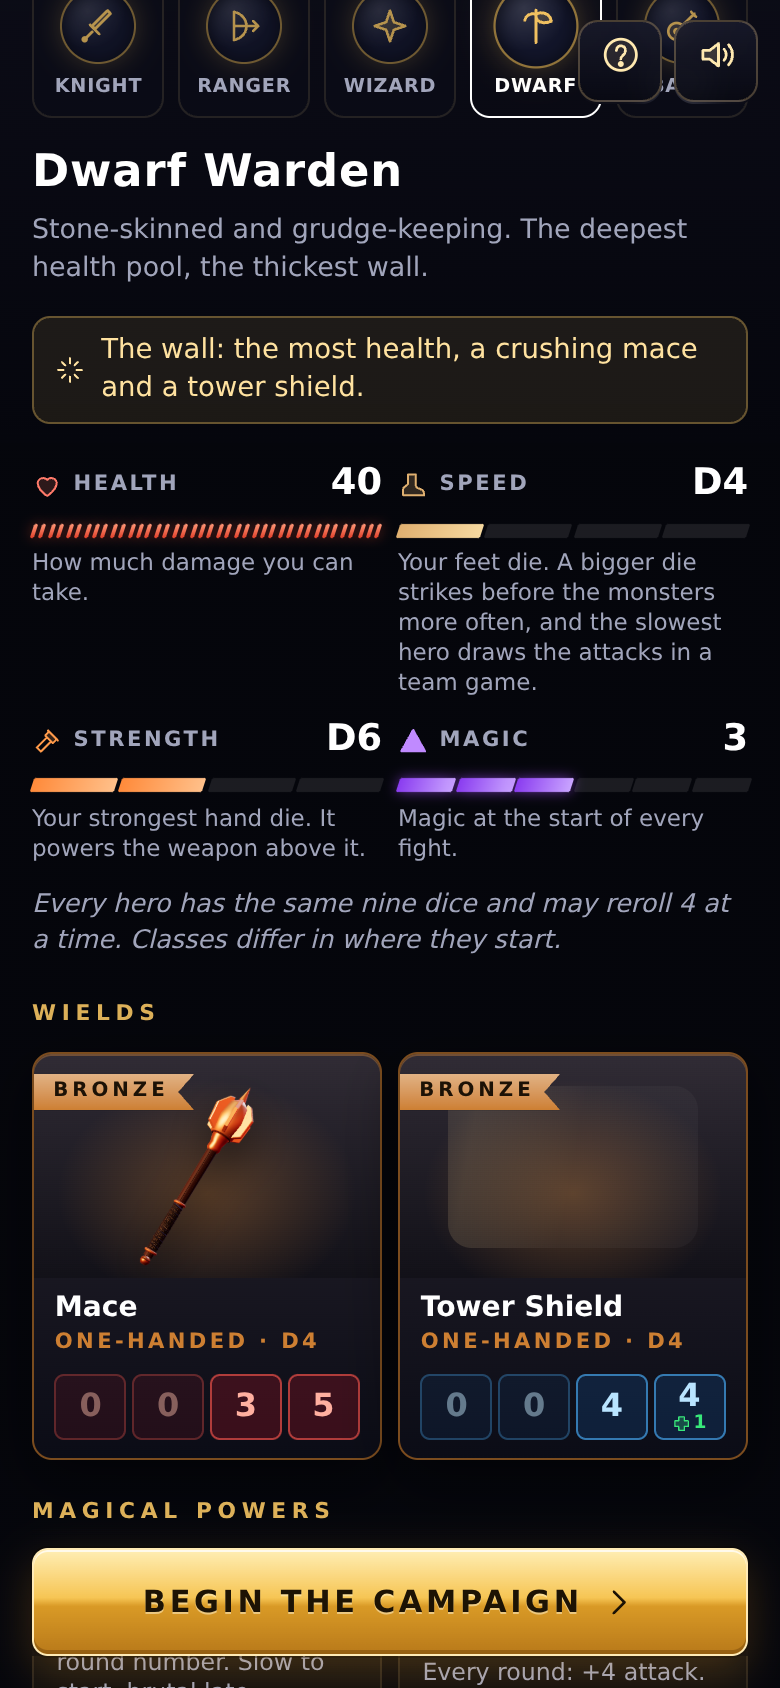
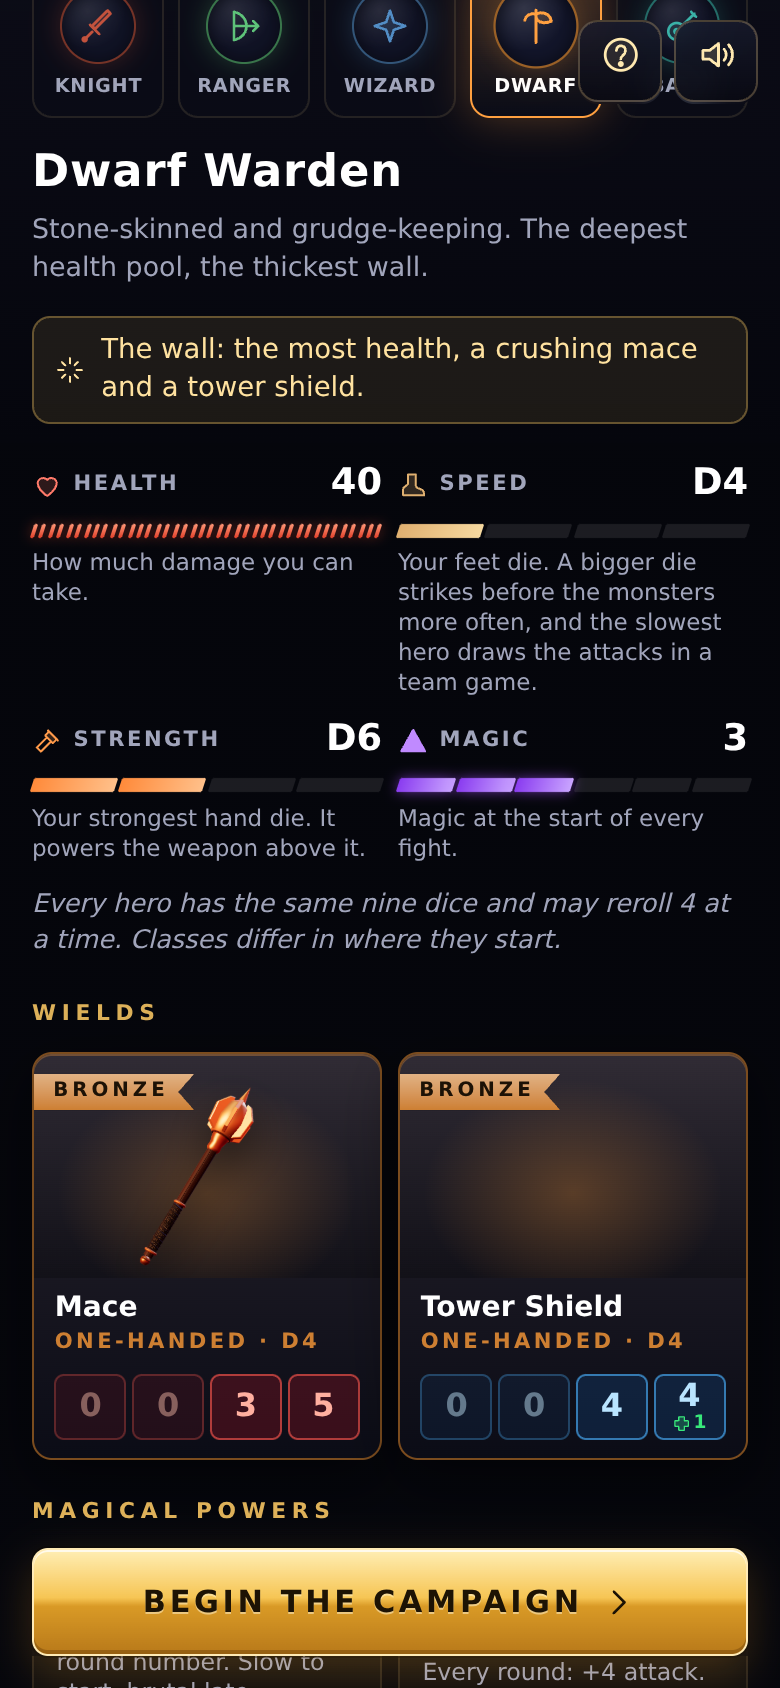
Company looks: a second or third hero of the same class wears another colour set; roster chips match
Claude-Session: https://claude.ai/code/session_01DujDBar2Jc6ufUDBkRgkDu

diff --git a/index.html b/index.html
@@ -5,7 +5,7 @@
   <meta name="viewport" content="width=device-width, initial-scale=1, viewport-fit=cover">
   <meta name="theme-color" content="#04060d">
   <title>QuestDice</title>
-  <script type="importmap">{"imports":{"three":"./vendor/three/build/three.module.js","three/addons/":"./vendor/three/examples/jsm/","./js/auction.js":"./js/auction.js?v=20261010j","./js/audio.js":"./js/audio.js?v=20261010j","./js/cloud.js":"./js/cloud.js?v=20261010j","./js/coach.js":"./js/coach.js?v=20261010j","./js/data.js":"./js/data.js?v=20261010j","./js/die3d.js":"./js/die3d.js?v=20261010j","./js/dom.js":"./js/dom.js?v=20261010j","./js/engine.js":"./js/engine.js?v=20261010j","./js/firebase-config.js":"./js/firebase-config.js?v=20261010j","./js/fx.js":"./js/fx.js?v=20261010j","./js/g3/battle3d.js":"./js/g3/battle3d.js?v=20261010j","./js/g3/director.js":"./js/g3/director.js?v=20261010j","./js/g3/hudkit.js":"./js/g3/hudkit.js?v=20261010j","./js/g3/icons.js":"./js/g3/icons.js?v=20261010j","./js/g3/portrait.js":"./js/g3/portrait.js?v=20261010j","./js/g3/screens.js":"./js/g3/screens.js?v=20261010j","./js/g3/scrui.js":"./js/g3/scrui.js?v=20261010j","./js/g3/stubs.js":"./js/g3/stubs.js?v=20261010j","./js/g3/tutorial.js":"./js/g3/tutorial.js?v=20261010j","./js/g3/world.js":"./js/g3/world.js?v=20261010j","./js/gfx/actors/base.js":"./js/gfx/actors/base.js?v=20261010j","./js/gfx/actors/common.js":"./js/gfx/actors/common.js?v=20261010j","./js/gfx/actors/cultist.js":"./js/gfx/actors/cultist.js?v=20261010j","./js/gfx/actors/goblin.js":"./js/gfx/actors/goblin.js?v=20261010j","./js/gfx/actors/goblinking.js":"./js/gfx/actors/goblinking.js?v=20261010j","./js/gfx/actors/hero.js":"./js/gfx/actors/hero.js?v=20261010j","./js/gfx/actors/heroclips.js":"./js/gfx/actors/heroclips.js?v=20261010j","./js/gfx/actors/herocloth.js":"./js/gfx/actors/herocloth.js?v=20261010j","./js/gfx/actors/herokit.js":"./js/gfx/actors/herokit.js?v=20261010j","./js/gfx/actors/index.js":"./js/gfx/actors/index.js?v=20261010j","./js/gfx/actors/ogre.js":"./js/gfx/actors/ogre.js?v=20261010j","./js/gfx/actors/parts.js":"./js/gfx/actors/parts.js?v=20261010j","./js/gfx/actors/parts2.js":"./js/gfx/actors/parts2.js?v=20261010j","./js/gfx/actors/wolf.js":"./js/gfx/actors/wolf.js?v=20261010j","./js/gfx/arena.js":"./js/gfx/arena.js?v=20261010j","./js/gfx/arena/common.js":"./js/gfx/arena/common.js?v=20261010j","./js/gfx/arena/flora.js":"./js/gfx/arena/flora.js?v=20261010j","./js/gfx/arena/fx.js":"./js/gfx/arena/fx.js?v=20261010j","./js/gfx/arena/ground.js":"./js/gfx/arena/ground.js?v=20261010j","./js/gfx/arena/helpers.js":"./js/gfx/arena/helpers.js?v=20261010j","./js/gfx/arena/kit.js":"./js/gfx/arena/kit.js?v=20261010j","./js/gfx/arena/places1.js":"./js/gfx/arena/places1.js?v=20261010j","./js/gfx/arena/places2.js":"./js/gfx/arena/places2.js?v=20261010j","./js/gfx/arena/props.js":"./js/gfx/arena/props.js?v=20261010j","./js/gfx/arena/sky.js":"./js/gfx/arena/sky.js?v=20261010j","./js/gfx/arena/tex.js":"./js/gfx/arena/tex.js?v=20261010j","./js/gfx/core.js":"./js/gfx/core.js?v=20261010j","./js/gfx/demo/actor.js":"./js/gfx/demo/actor.js?v=20261010j","./js/gfx/demo/arena.js":"./js/gfx/demo/arena.js?v=20261010j","./js/gfx/demo/dicegallery.js":"./js/gfx/demo/dicegallery.js?v=20261010j","./js/gfx/demo/dicelab.js":"./js/gfx/demo/dicelab.js?v=20261010j","./js/gfx/demo/materials.js":"./js/gfx/demo/materials.js?v=20261010j","./js/gfx/demo/tray.js":"./js/gfx/demo/tray.js?v=20261010j","./js/gfx/demo/vfx.js":"./js/gfx/demo/vfx.js?v=20261010j","./js/gfx/demo/weapons.js":"./js/gfx/demo/weapons.js?v=20261010j","./js/gfx/dice/art.js":"./js/gfx/dice/art.js?v=20261010j","./js/gfx/dice/dice.js":"./js/gfx/dice/dice.js?v=20261010j","./js/gfx/dice/faces.js":"./js/gfx/dice/faces.js?v=20261010j","./js/gfx/dice/fx.js":"./js/gfx/dice/fx.js?v=20261010j","./js/gfx/dice/poly.js":"./js/gfx/dice/poly.js?v=20261010j","./js/gfx/dice/roll.js":"./js/gfx/dice/roll.js?v=20261010j","./js/gfx/dice/tray.js":"./js/gfx/dice/tray.js?v=20261010j","./js/gfx/env.js":"./js/gfx/env.js?v=20261010j","./js/gfx/mats.js":"./js/gfx/mats.js?v=20261010j","./js/gfx/noise.js":"./js/gfx/noise.js?v=20261010j","./js/gfx/particles.js":"./js/gfx/particles.js?v=20261010j","./js/gfx/post.js":"./js/gfx/post.js?v=20261010j","./js/gfx/rig.js":"./js/gfx/rig.js?v=20261010j","./js/gfx/tex.js":"./js/gfx/tex.js?v=20261010j","./js/gfx/util.js":"./js/gfx/util.js?v=20261010j","./js/gfx/vfx.js":"./js/gfx/vfx.js?v=20261010j","./js/gfx/vfx/quads.js":"./js/gfx/vfx/quads.js?v=20261010j","./js/gfx/vfx/shaders.js":"./js/gfx/vfx/shaders.js?v=20261010j","./js/gfx/vfx/strips.js":"./js/gfx/vfx/strips.js?v=20261010j","./js/gfx/vfx/text.js":"./js/gfx/vfx/text.js?v=20261010j","./js/gfx/vfx/textures.js":"./js/gfx/vfx/textures.js?v=20261010j","./js/gfx/weapons.js":"./js/gfx/weapons.js?v=20261010j","./js/main.js":"./js/main.js?v=20261010j","./js/mat.js":"./js/mat.js?v=20261010j","./js/net.js":"./js/net.js?v=20261010j","./js/pack.js":"./js/pack.js?v=20261010j","./js/roads.js":"./js/roads.js?v=20261010j","./js/roomui.js":"./js/roomui.js?v=20261010j","./js/save.js":"./js/save.js?v=20261010j","./js/table.js":"./js/table.js?v=20261010j","./js/ui.js":"./js/ui.js?v=20261010j","./js/view.js":"./js/view.js?v=20261010j"}}</script>
+  <script type="importmap">{"imports":{"three":"./vendor/three/build/three.module.js","three/addons/":"./vendor/three/examples/jsm/","./js/auction.js":"./js/auction.js?v=20261010k","./js/audio.js":"./js/audio.js?v=20261010k","./js/cloud.js":"./js/cloud.js?v=20261010k","./js/coach.js":"./js/coach.js?v=20261010k","./js/data.js":"./js/data.js?v=20261010k","./js/die3d.js":"./js/die3d.js?v=20261010k","./js/dom.js":"./js/dom.js?v=20261010k","./js/engine.js":"./js/engine.js?v=20261010k","./js/firebase-config.js":"./js/firebase-config.js?v=20261010k","./js/fx.js":"./js/fx.js?v=20261010k","./js/g3/battle3d.js":"./js/g3/battle3d.js?v=20261010k","./js/g3/director.js":"./js/g3/director.js?v=20261010k","./js/g3/hudkit.js":"./js/g3/hudkit.js?v=20261010k","./js/g3/icons.js":"./js/g3/icons.js?v=20261010k","./js/g3/portrait.js":"./js/g3/portrait.js?v=20261010k","./js/g3/screens.js":"./js/g3/screens.js?v=20261010k","./js/g3/scrui.js":"./js/g3/scrui.js?v=20261010k","./js/g3/stubs.js":"./js/g3/stubs.js?v=20261010k","./js/g3/tutorial.js":"./js/g3/tutorial.js?v=20261010k","./js/g3/world.js":"./js/g3/world.js?v=20261010k","./js/gfx/actors/base.js":"./js/gfx/actors/base.js?v=20261010k","./js/gfx/actors/common.js":"./js/gfx/actors/common.js?v=20261010k","./js/gfx/actors/cultist.js":"./js/gfx/actors/cultist.js?v=20261010k","./js/gfx/actors/goblin.js":"./js/gfx/actors/goblin.js?v=20261010k","./js/gfx/actors/goblinking.js":"./js/gfx/actors/goblinking.js?v=20261010k","./js/gfx/actors/hero.js":"./js/gfx/actors/hero.js?v=20261010k","./js/gfx/actors/heroclips.js":"./js/gfx/actors/heroclips.js?v=20261010k","./js/gfx/actors/herocloth.js":"./js/gfx/actors/herocloth.js?v=20261010k","./js/gfx/actors/herokit.js":"./js/gfx/actors/herokit.js?v=20261010k","./js/gfx/actors/index.js":"./js/gfx/actors/index.js?v=20261010k","./js/gfx/actors/ogre.js":"./js/gfx/actors/ogre.js?v=20261010k","./js/gfx/actors/parts.js":"./js/gfx/actors/parts.js?v=20261010k","./js/gfx/actors/parts2.js":"./js/gfx/actors/parts2.js?v=20261010k","./js/gfx/actors/wolf.js":"./js/gfx/actors/wolf.js?v=20261010k","./js/gfx/arena.js":"./js/gfx/arena.js?v=20261010k","./js/gfx/arena/common.js":"./js/gfx/arena/common.js?v=20261010k","./js/gfx/arena/flora.js":"./js/gfx/arena/flora.js?v=20261010k","./js/gfx/arena/fx.js":"./js/gfx/arena/fx.js?v=20261010k","./js/gfx/arena/ground.js":"./js/gfx/arena/ground.js?v=20261010k","./js/gfx/arena/helpers.js":"./js/gfx/arena/helpers.js?v=20261010k","./js/gfx/arena/kit.js":"./js/gfx/arena/kit.js?v=20261010k","./js/gfx/arena/places1.js":"./js/gfx/arena/places1.js?v=20261010k","./js/gfx/arena/places2.js":"./js/gfx/arena/places2.js?v=20261010k","./js/gfx/arena/props.js":"./js/gfx/arena/props.js?v=20261010k","./js/gfx/arena/sky.js":"./js/gfx/arena/sky.js?v=20261010k","./js/gfx/arena/tex.js":"./js/gfx/arena/tex.js?v=20261010k","./js/gfx/core.js":"./js/gfx/core.js?v=20261010k","./js/gfx/demo/actor.js":"./js/gfx/demo/actor.js?v=20261010k","./js/gfx/demo/arena.js":"./js/gfx/demo/arena.js?v=20261010k","./js/gfx/demo/dicegallery.js":"./js/gfx/demo/dicegallery.js?v=20261010k","./js/gfx/demo/dicelab.js":"./js/gfx/demo/dicelab.js?v=20261010k","./js/gfx/demo/materials.js":"./js/gfx/demo/materials.js?v=20261010k","./js/gfx/demo/tray.js":"./js/gfx/demo/tray.js?v=20261010k","./js/gfx/demo/vfx.js":"./js/gfx/demo/vfx.js?v=20261010k","./js/gfx/demo/weapons.js":"./js/gfx/demo/weapons.js?v=20261010k","./js/gfx/dice/art.js":"./js/gfx/dice/art.js?v=20261010k","./js/gfx/dice/dice.js":"./js/gfx/dice/dice.js?v=20261010k","./js/gfx/dice/faces.js":"./js/gfx/dice/faces.js?v=20261010k","./js/gfx/dice/fx.js":"./js/gfx/dice/fx.js?v=20261010k","./js/gfx/dice/poly.js":"./js/gfx/dice/poly.js?v=20261010k","./js/gfx/dice/roll.js":"./js/gfx/dice/roll.js?v=20261010k","./js/gfx/dice/tray.js":"./js/gfx/dice/tray.js?v=20261010k","./js/gfx/env.js":"./js/gfx/env.js?v=20261010k","./js/gfx/mats.js":"./js/gfx/mats.js?v=20261010k","./js/gfx/noise.js":"./js/gfx/noise.js?v=20261010k","./js/gfx/particles.js":"./js/gfx/particles.js?v=20261010k","./js/gfx/post.js":"./js/gfx/post.js?v=20261010k","./js/gfx/rig.js":"./js/gfx/rig.js?v=20261010k","./js/gfx/tex.js":"./js/gfx/tex.js?v=20261010k","./js/gfx/util.js":"./js/gfx/util.js?v=20261010k","./js/gfx/vfx.js":"./js/gfx/vfx.js?v=20261010k","./js/gfx/vfx/quads.js":"./js/gfx/vfx/quads.js?v=20261010k","./js/gfx/vfx/shaders.js":"./js/gfx/vfx/shaders.js?v=20261010k","./js/gfx/vfx/strips.js":"./js/gfx/vfx/strips.js?v=20261010k","./js/gfx/vfx/text.js":"./js/gfx/vfx/text.js?v=20261010k","./js/gfx/vfx/textures.js":"./js/gfx/vfx/textures.js?v=20261010k","./js/gfx/weapons.js":"./js/gfx/weapons.js?v=20261010k","./js/main.js":"./js/main.js?v=20261010k","./js/mat.js":"./js/mat.js?v=20261010k","./js/net.js":"./js/net.js?v=20261010k","./js/pack.js":"./js/pack.js?v=20261010k","./js/roads.js":"./js/roads.js?v=20261010k","./js/roomui.js":"./js/roomui.js?v=20261010k","./js/save.js":"./js/save.js?v=20261010k","./js/table.js":"./js/table.js?v=20261010k","./js/ui.js":"./js/ui.js?v=20261010k","./js/view.js":"./js/view.js?v=20261010k"}}</script>
   <meta name="description" content="Roll your body. Break the dark. A fantasy dice campaign for one to six heroes, each on their own phone.">
   <meta property="og:title" content="QuestDice">
   <meta property="og:description" content="Roll your body. Break the dark.">
@@ -13,11 +13,11 @@
   <link rel="preconnect" href="https://fonts.googleapis.com">
   <link rel="preconnect" href="https://fonts.gstatic.com" crossorigin>
   <link href="https://fonts.googleapis.com/css2?family=Archivo+Black&family=Cormorant+Garamond:ital,wght@0,500;0,600;1,500&family=Inter:wght@400;500;600;700&family=Oxanium:wght@500;600;700;800&display=swap" rel="stylesheet">
-  <link rel="stylesheet" href="css/style.css?v=20261010j">
-  <link rel="stylesheet" href="css/g3.css?v=20261010j">
-  <link rel="stylesheet" href="css/screens.css?v=20261010j">
-  <link rel="stylesheet" href="css/hud.css?v=20261010j">
-  <link rel="stylesheet" href="css/tutorial.css?v=20261010j">
+  <link rel="stylesheet" href="css/style.css?v=20261010k">
+  <link rel="stylesheet" href="css/g3.css?v=20261010k">
+  <link rel="stylesheet" href="css/screens.css?v=20261010k">
+  <link rel="stylesheet" href="css/hud.css?v=20261010k">
+  <link rel="stylesheet" href="css/tutorial.css?v=20261010k">
 </head>
 <body>
   <div class="app-frame">
@@ -33,6 +33,6 @@
   <div id="toast" role="status"></div>
   <div id="modal"></div>
   <noscript><p style="padding:2rem;color:#fff">QuestDice needs JavaScript.</p></noscript>
-  <script type="module" src="js/main.js?v=20261010j"></script>
+  <script type="module" src="js/main.js?v=20261010k"></script>
 </body>
 </html>

diff --git a/js/gfx/actors/hero.js b/js/gfx/actors/hero.js
@@ -5,7 +5,7 @@ import * as THREE from 'three';
 import { Actor } from './base.js';
 import { mat } from '../mats.js';
 import { sprite } from '../tex.js';
-import { WEAPONS, CLASSES } from '../../data.js';
+import { WEAPONS, CLASSES, HERO_LOOKS } from '../../data.js';
 import { createWeapon, createArrow, emblemTexture } from '../weapons.js';
 import { lathe, tube, mergeGeometries } from '../util.js';
 import { mulberry32 } from '../noise.js';
@@ -323,7 +323,7 @@ function costumeKnight(ctx) {
   sk.add('cloth', merge(plume), 'plume', null);
   ctx.sways.push(['head', ['plume'], { gain: 1.6, wind: 0.05 }]);
   // tabard (emblem) front/back, knee-length two-layer cape
-  const em = emblemTexture('crown', { a: '#9a1f2a', b: '#f0d070', c: '#1a1210' });
+  const em = emblemTexture('crown', { a: `#${new THREE.Color(S.cloth).getHexString()}`, b: '#f0d070', c: '#1a1210' }); // the tabard follows the hero's colours
   const tabMat = new THREE.MeshStandardMaterial({ map: em, side: THREE.DoubleSide, roughness: 0.85, metalness: 0, vertexColors: true });
   const fold = (u, v) => 0.014 * Math.sin(u * 14 + v * 2.5) * (0.3 + v);
   ctx.cloth.push({ joint: 'hips', cols: 8, rows: 8, material: tabMat, uvScale: [1, 1], restFn: (u, v) => [(u - 0.5) * (0.28 + 0.06 * v) * W, 0.07 - v * 0.64, 0.17 + 0.03 * v + fold(u, v)], stiff: [40, 8] });
@@ -593,9 +593,11 @@ function box0(w, h, d) { return new THREE.BoxGeometry(w, h, d); }
 const COSTUME = { knight: costumeKnight, ranger: costumeRanger, wizard: costumeWizard, dwarf: costumeDwarf, bard: costumeBard };
 
 // ------------------------------------------------------------------------------------------ the actor
-export function create({ cls = 'knight', loadout, level = 1, seed = 1, quality = 'high' } = {}) {
+export function create({ cls = 'knight', loadout, level = 1, seed = 1, quality = 'high', look = 0 } = {}) {
   if (!SPEC[cls]) cls = 'knight';
-  const spec = SPEC[cls]; const M = mats();
+  // a company's second or third hero of a class wears another colour set (data.js HERO_LOOKS)
+  const alt = look > 0 ? HERO_LOOKS[cls]?.[look % HERO_LOOKS[cls].length] : null;
+  const spec = alt ? { ...SPEC[cls], ...Object.fromEntries(Object.entries(alt).filter(([, v]) => typeof v === 'number')) } : SPEC[cls]; const M = mats();
   const rng = mulberry32(seed * 7919 + cls.length);
   const a = new Actor({ name: `hero-${cls}`, height: 1.8 * spec.scale, radius: 0.5 * Math.max(1, spec.W * 0.9) });
   const W = spec.W;
@@ -666,7 +668,7 @@ export function create({ cls = 'knight', loadout, level = 1, seed = 1, quality =
     // a legendary poses and mounts as its ordinary model; only createWeapon sees its own id (for the golden look)
     const vis = (w) => (w && WEAPONS[w.id]?.legendary ? { ...w, id: WEAPONS[w.id].model, rarity: 3, legend: w.id } : w);
     const nw = vis(lo.NW); const ne = vis(lo.NE); const two = WEAPONS[nw.id].hands === 2;
-    const opts = { quality, style: cls === 'dwarf' ? 'round' : 'heater', emblem: cls === 'knight' ? 'crown' : cls === 'dwarf' ? 'rune' : undefined, accent: spec.accent };
+    const opts = { quality, style: cls === 'dwarf' ? 'round' : 'heater', emblem: cls === 'knight' ? 'crown' : cls === 'dwarf' ? 'rune' : undefined, accent: spec.accent, tint: alt ? spec.cloth : undefined };
     const place = (w, side, id) => {
       if (id === 'shield') w.scale.setScalar(cls === 'dwarf' ? 1.1 : 1.3);
       if (id === 'tower') w.scale.setScalar(1.15);

diff --git a/js/data.js b/js/data.js
@@ -191,6 +191,30 @@ export const talentText = (sym) => (sym === 'X2' ? 'Doubles this hand’s streng
 export const STRENGTH_STEPS = { 4: [40, 3], 6: [100, 7], 8: [220, 12] };
 export const SPECIAL_STEPS = { 4: [60, 3] }; // the talent die grows d4 -> d6 only
 // Speed: the feet die is the initiative die; a bigger one beats more monster rolls. [gold, hero level]
+// Company looks (Dave): a second or third hero of the same class wears another colour set, so every hero on the field is
+// easy to tell apart. Look 0 is the class's own colours; the others replace cloth, trim, accent, glow (and sometimes hair).
+// `hue` colours the hero's chip in the battle roster.
+export const HERO_LOOKS = {
+  knight: [{ name: 'Crimson', hue: '#ff6a4a' },
+    { name: 'Steel blue', hue: '#6aa8ff', cloth: 0x2a4a8a, cloth2: 0x1a2e5a, accent: 0x3a7ad8, glow: 0x6aa8ff, trim: 0xd8dce8 },
+    { name: 'Black and gold', hue: '#ffd060', cloth: 0x2a2a30, cloth2: 0x18181c, accent: 0xe0b858, glow: 0xffd060, trim: 0xe0b858, hair: 0x9a6a3a }],
+  ranger: [{ name: 'Forest', hue: '#7aff9a' },
+    { name: 'Autumn', hue: '#ffa040', cloth: 0x8a5a2a, cloth2: 0x5a3a1a, accent: 0xffa040, glow: 0xffc070, hair: 0x8a3a18 },
+    { name: 'Stone grey', hue: '#a8dcff', cloth: 0x4a5a6a, cloth2: 0x2e3a46, accent: 0x8ad0ff, glow: 0xb0e0ff, hair: 0xd8c08a }],
+  wizard: [{ name: 'Sky blue', hue: '#6ab8ff' },
+    { name: 'Violet', hue: '#c88aff', cloth: 0x6a2a8a, cloth2: 0x401a58, accent: 0xc070ff, glow: 0xd8a0ff, hair: 0x3a2a1c },
+    { name: 'White and gold', hue: '#ffe080', cloth: 0xd8d4c8, cloth2: 0x9a948a, accent: 0xffd060, glow: 0xfff0a0, hair: 0x6a4428 }],
+  dwarf: [{ name: 'Ember', hue: '#ffa040' },
+    { name: 'Moss', hue: '#8aff8a', cloth: 0x2e4a2a, cloth2: 0x1e3020, accent: 0x6ae070, glow: 0x8aff8a, hair: 0x2a1e14 },
+    { name: 'Deep blue', hue: '#7ac0ff', cloth: 0x2a3a5a, cloth2: 0x1a2640, accent: 0x5aa8ff, glow: 0x7ac0ff, hair: 0xd8c8a0 }],
+  bard: [{ name: 'Teal', hue: '#4ae8d8' },
+    { name: 'Plum', hue: '#ff8ac8', cloth: 0x8a2a5a, cloth2: 0x5a1a3c, accent: 0xff6ab0, glow: 0xff9ad0, hair: 0x2c1e14 },
+    { name: 'Sunflower', hue: '#ffd040', cloth: 0xb08a2a, cloth2: 0x6a5218, accent: 0xffd040, glow: 0xffe080, hair: 0x5a2a12 }],
+};
+// Which look a hero wears in a company: how many heroes of the same class stand before them (wrapping past the last look).
+export const lookIndex = (heroes, i) => (heroes || []).slice(0, i).filter((x) => x?.cls === heroes[i]?.cls).length % (HERO_LOOKS[heroes?.[i]?.cls]?.length || 1);
+export const lookOf = (heroes, i) => HERO_LOOKS[heroes?.[i]?.cls]?.[lookIndex(heroes, i)] || null;
+
 export const SPEED_STEPS = { 4: [60, 2], 6: [140, 6] }; // feet stop at d6 (the Ranger alone can train them to d8)
 export const NEXT_SIZE = { 4: 6, 6: 8, 8: 10 };
 

diff --git a/css/hud.css b/css/hud.css
@@ -609,7 +609,8 @@ body.in-battle .chrome { z-index: 40; }
 /* company: roster chips under the round title, sheet tabs, friend chooser */
 .b3-roster { position: absolute; z-index: 5; left: calc(.6rem + var(--safe-l)); top: calc(3.9rem + var(--safe-t)); display: flex; flex-wrap: wrap; gap: .3rem; max-width: 66%; pointer-events: none; }
 .rs-chip { display: grid; grid-template-columns: auto auto auto; grid-template-rows: auto auto; column-gap: .3rem; align-items: center; padding: .2rem .45rem .25rem .35rem; border-radius: .6rem; background: rgba(12, 8, 20, .78); box-shadow: inset 0 0 0 1px rgba(255, 255, 255, .14); font-family: var(--disp); }
-.rs-chip .rs-ic { grid-row: 1 / 3; width: .95rem; height: .95rem; color: #ff6a6a; } .rs-chip .rs-ic svg { width: 100%; height: 100%; }
+.rs-chip .rs-ic { grid-row: 1 / 3; width: .95rem; height: .95rem; color: var(--hue, #ff6a6a); }
+.rs-chip { border-left: 3px solid var(--hue, transparent); } .rs-chip .rs-ic svg { width: 100%; height: 100%; }
 .rs-chip .rs-name { font-size: .66rem; font-weight: 800; color: #fff; letter-spacing: .03em; max-width: 4.6rem; overflow: hidden; text-overflow: ellipsis; white-space: nowrap; }
 .rs-chip .rs-pts { font-size: .62rem; color: #ffe08a; font-variant-numeric: tabular-nums; justify-self: end; }
 .rs-chip .rs-hp { grid-column: 2 / 4; display: block; height: 3px; border-radius: 2px; background: rgba(255, 255, 255, .15); overflow: hidden; margin-top: .15rem; }

diff --git a/js/g3/battle3d.js b/js/g3/battle3d.js
@@ -205,9 +205,11 @@ function setActive(i) {
 }
 function renderRoster() {
   const el = B.hud?.roster; if (!el) return; const b = B.b;
+  const heroes = b.fighters.map((f) => f.hero);
   el.replaceChildren(...b.fighters.map((f, i) => {
     const turn = i === B.active && f.hp > 0; const locked = !!f.board && i !== B.active; const down = f.hp <= 0;
-    return h('div', { class: `rs-chip ${turn ? 'turn' : ''} ${locked ? 'locked' : ''} ${down ? 'down' : ''}`, role: 'listitem', 'aria-label': `${f.hero.name}, ${Math.max(0, Math.ceil(f.hp))} of ${f.maxHp} health, ${E.pointsOf(f)} points` },
+    const look = D.lookOf(heroes, i); // each chip wears its hero's colours, so two Knights read apart
+    return h('div', { class: `rs-chip ${turn ? 'turn' : ''} ${locked ? 'locked' : ''} ${down ? 'down' : ''}`, role: 'listitem', style: look ? { '--hue': look.hue } : null, 'aria-label': `${f.hero.name}${look && D.lookIndex(heroes, i) ? ` (${look.name})` : ''}, ${Math.max(0, Math.ceil(f.hp))} of ${f.maxHp} health, ${E.pointsOf(f)} points` },
       h('span', { class: 'rs-ic' }, down ? HK.icon('skull') : locked ? HK.icon('lock') : HK.icon(D.CLASSES[f.hero.cls] ? 'heart' : 'heart')),
       h('b', { class: 'rs-name' }, f.hero.name),
       h('i', { class: 'rs-hp' }, h('i', { style: { width: `${Math.max(0, Math.min(100, (f.hp / f.maxHp) * 100))}%` } })),

diff --git a/js/g3/world.js b/js/g3/world.js
@@ -6,6 +6,7 @@ import { createStage } from '../gfx/core.js';
 import { createActor } from '../gfx/actors/index.js';
 import { Director } from './director.js';
 import { stubArena, stubTray, stubVfx } from './stubs.js';
+import * as D from '../data.js';
 
 async function tryLoad(path) {
   try { return await import(path); } catch (e) { if (!/Failed to fetch|404|Failed to resolve/i.test(String(e?.message))) console.warn(`[world] ${path} failed:`, e); return null; }
@@ -86,7 +87,7 @@ export const world = {
     if (heroes && heroes.length > 1) {
       for (let i = 1; i < heroes.length; i++) {
         const hh = heroes[i];
-        const a = await createActor('hero', { cls: hh.cls, loadout: hh.loadout, level: hh.level, seed: (hh.campaign?.seed || 1) + i * 977, quality: stage.quality });
+        const a = await createActor('hero', { cls: hh.cls, loadout: hh.loadout, level: hh.level, seed: (hh.campaign?.seed || 1) + i * 977, quality: stage.quality, look: D.lookIndex(heroes, i) });
         a.root.rotation.y = heroActor.root.rotation.y; stage.scene.add(a.root); stage.onFrame((dt, t) => a.update(dt, t)); heroActors.push(a);
       }
     }

diff --git a/js/gfx/weapons.js b/js/gfx/weapons.js
@@ -757,7 +757,8 @@ export function createWeapon(id, rarity = 0, o = {}) {
   const group = new THREE.Group(); group.name = `weapon-${id}-${RNAMES[r]}`; const ud0 = group.userData;
   const P = new Parts(); const M = weaponMats(r);
   let info;
-  const faceMap = (id === 'shield' || id === 'tower') ? emblemTexture(o.emblem ?? (o.style === 'round' ? 'rune' : 'crown'), o.style === 'round' ? { a: '#6a3a1a', b: '#ffcf80', c: '#1c1008' } : { a: '#8a1c24', b: '#f0d070', c: '#14100a' }) : null;
+  const field = o.tint != null ? `#${new THREE.Color(o.tint).getHexString()}` : null; // a company hero's own colour on the shield
+  const faceMap = (id === 'shield' || id === 'tower') ? emblemTexture(o.emblem ?? (o.style === 'round' ? 'rune' : 'crown'), o.style === 'round' ? { a: field || '#6a3a1a', b: '#ffcf80', c: '#1c1008' } : { a: field || '#8a1c24', b: '#f0d070', c: '#14100a' }) : null;
   switch (id) {
     case 'sword': info = buildSword(r, P, pal); break;
     case 'longsword': info = buildSword(r, P, pal, { long: true }); break;

diff --git a/js/dom.js b/js/dom.js
@@ -5,7 +5,7 @@ export function h(tag, attrs, ...kids) {
     if (v == null || v === false) continue;
     if (k === 'class') el.className = v;
     else if (k === 'html') el.innerHTML = v;
-    else if (k === 'style' && typeof v === 'object') Object.assign(el.style, v);
+    else if (k === 'style' && typeof v === 'object') { for (const [sk, sv] of Object.entries(v)) { if (sk.startsWith('--')) el.style.setProperty(sk, sv); else el.style[sk] = sv; } } // custom properties need setProperty
     else if (k.startsWith('on') && typeof v === 'function') el.addEventListener(k.slice(2), v);
     else if (v === true) el.setAttribute(k, '');
     else el.setAttribute(k, v);

diff --git a/docs/PLAN.md b/docs/PLAN.md
@@ -380,3 +380,13 @@ GitHub Pages stopped rebuilding after run 93 (Oct 6, 22:00 UTC; live site stuck 
   says why; the online table returns the same reason). A two-handed legendary fills both hands.
 - Looks: createWeapon maps a legendary to its model with a warm gold crystal and halo; cards get a gold Legendary banner,
   shine, and always show their rule. Splash shows as a burst corner on the die.
+
+## Phase 5: company looks (Oct 2026)
+
+- data.js HERO_LOOKS: each class has its own colours plus two alternate sets (Knight: Crimson, Steel blue, Black and gold;
+  Ranger: Forest, Autumn, Stone grey; Wizard: Sky blue, Violet, White and gold; Dwarf: Ember, Moss, Deep blue; Bard: Teal,
+  Plum, Sunflower). lookIndex(heroes, i) = how many heroes of the same class stand before this one (wraps after three).
+- hero.js create({ look }) swaps cloth, trim, accent, glow and hair; the Knight's tabard and the shield emblem follow the
+  cloth colour. world.buildBattle passes each company hero's look. Battle roster chips carry the look's colour.
+- dom.js h(): style keys starting with `--` now use setProperty (custom properties never applied before, so class emblem
+  hues, list stagger delays and health bar ticks now show as designed).
